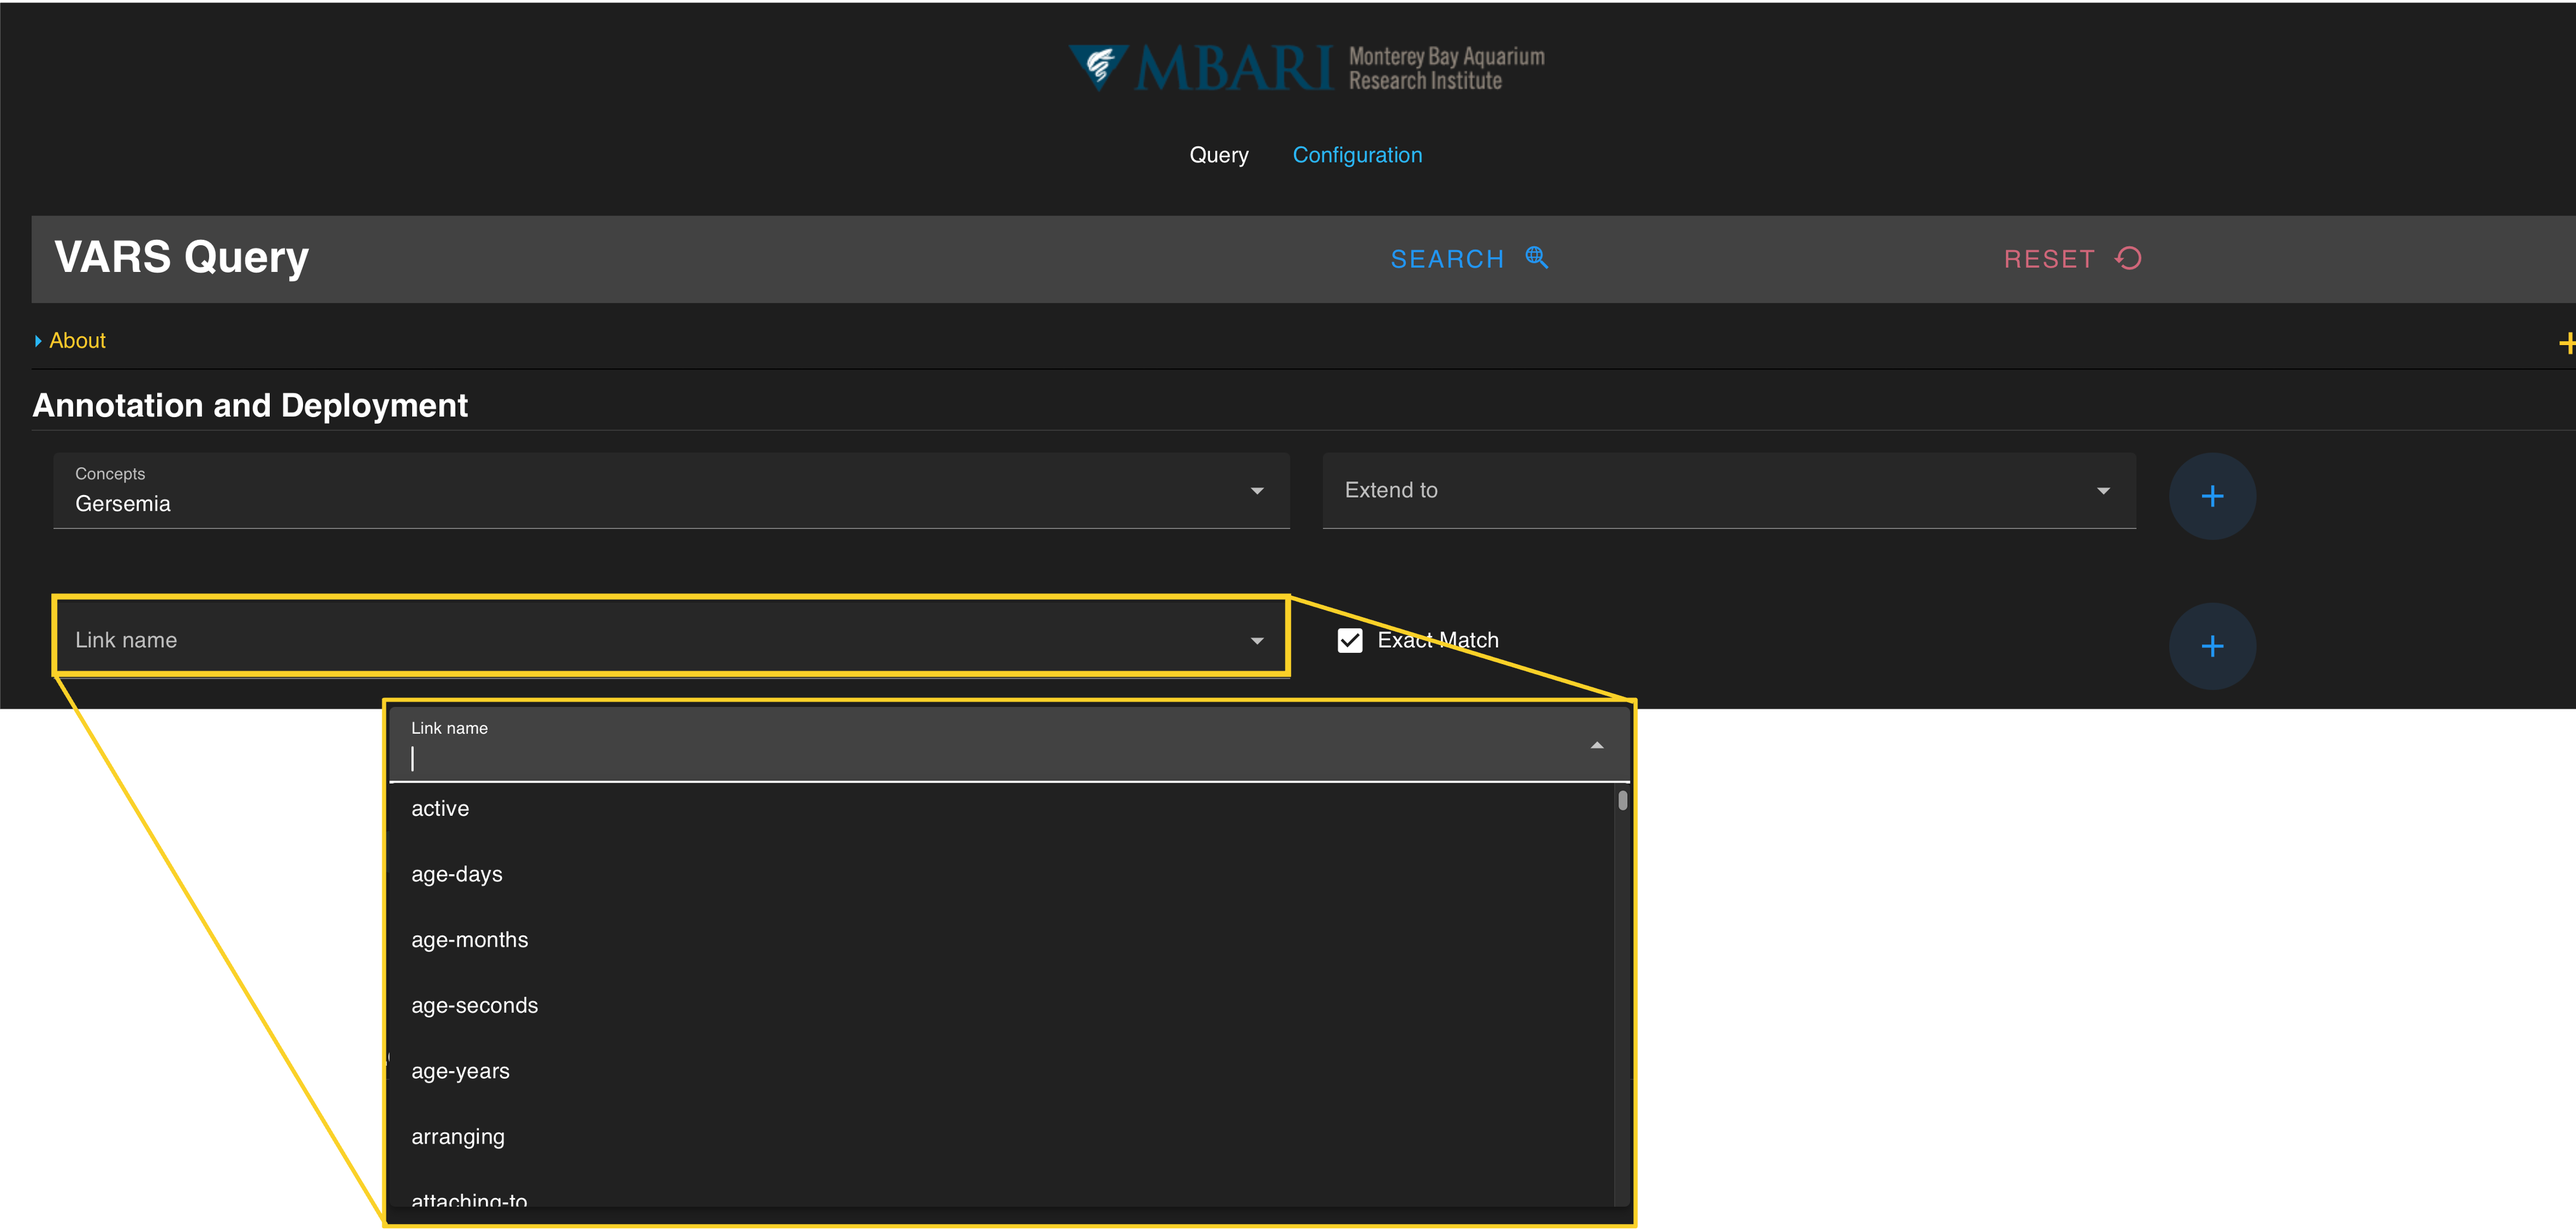
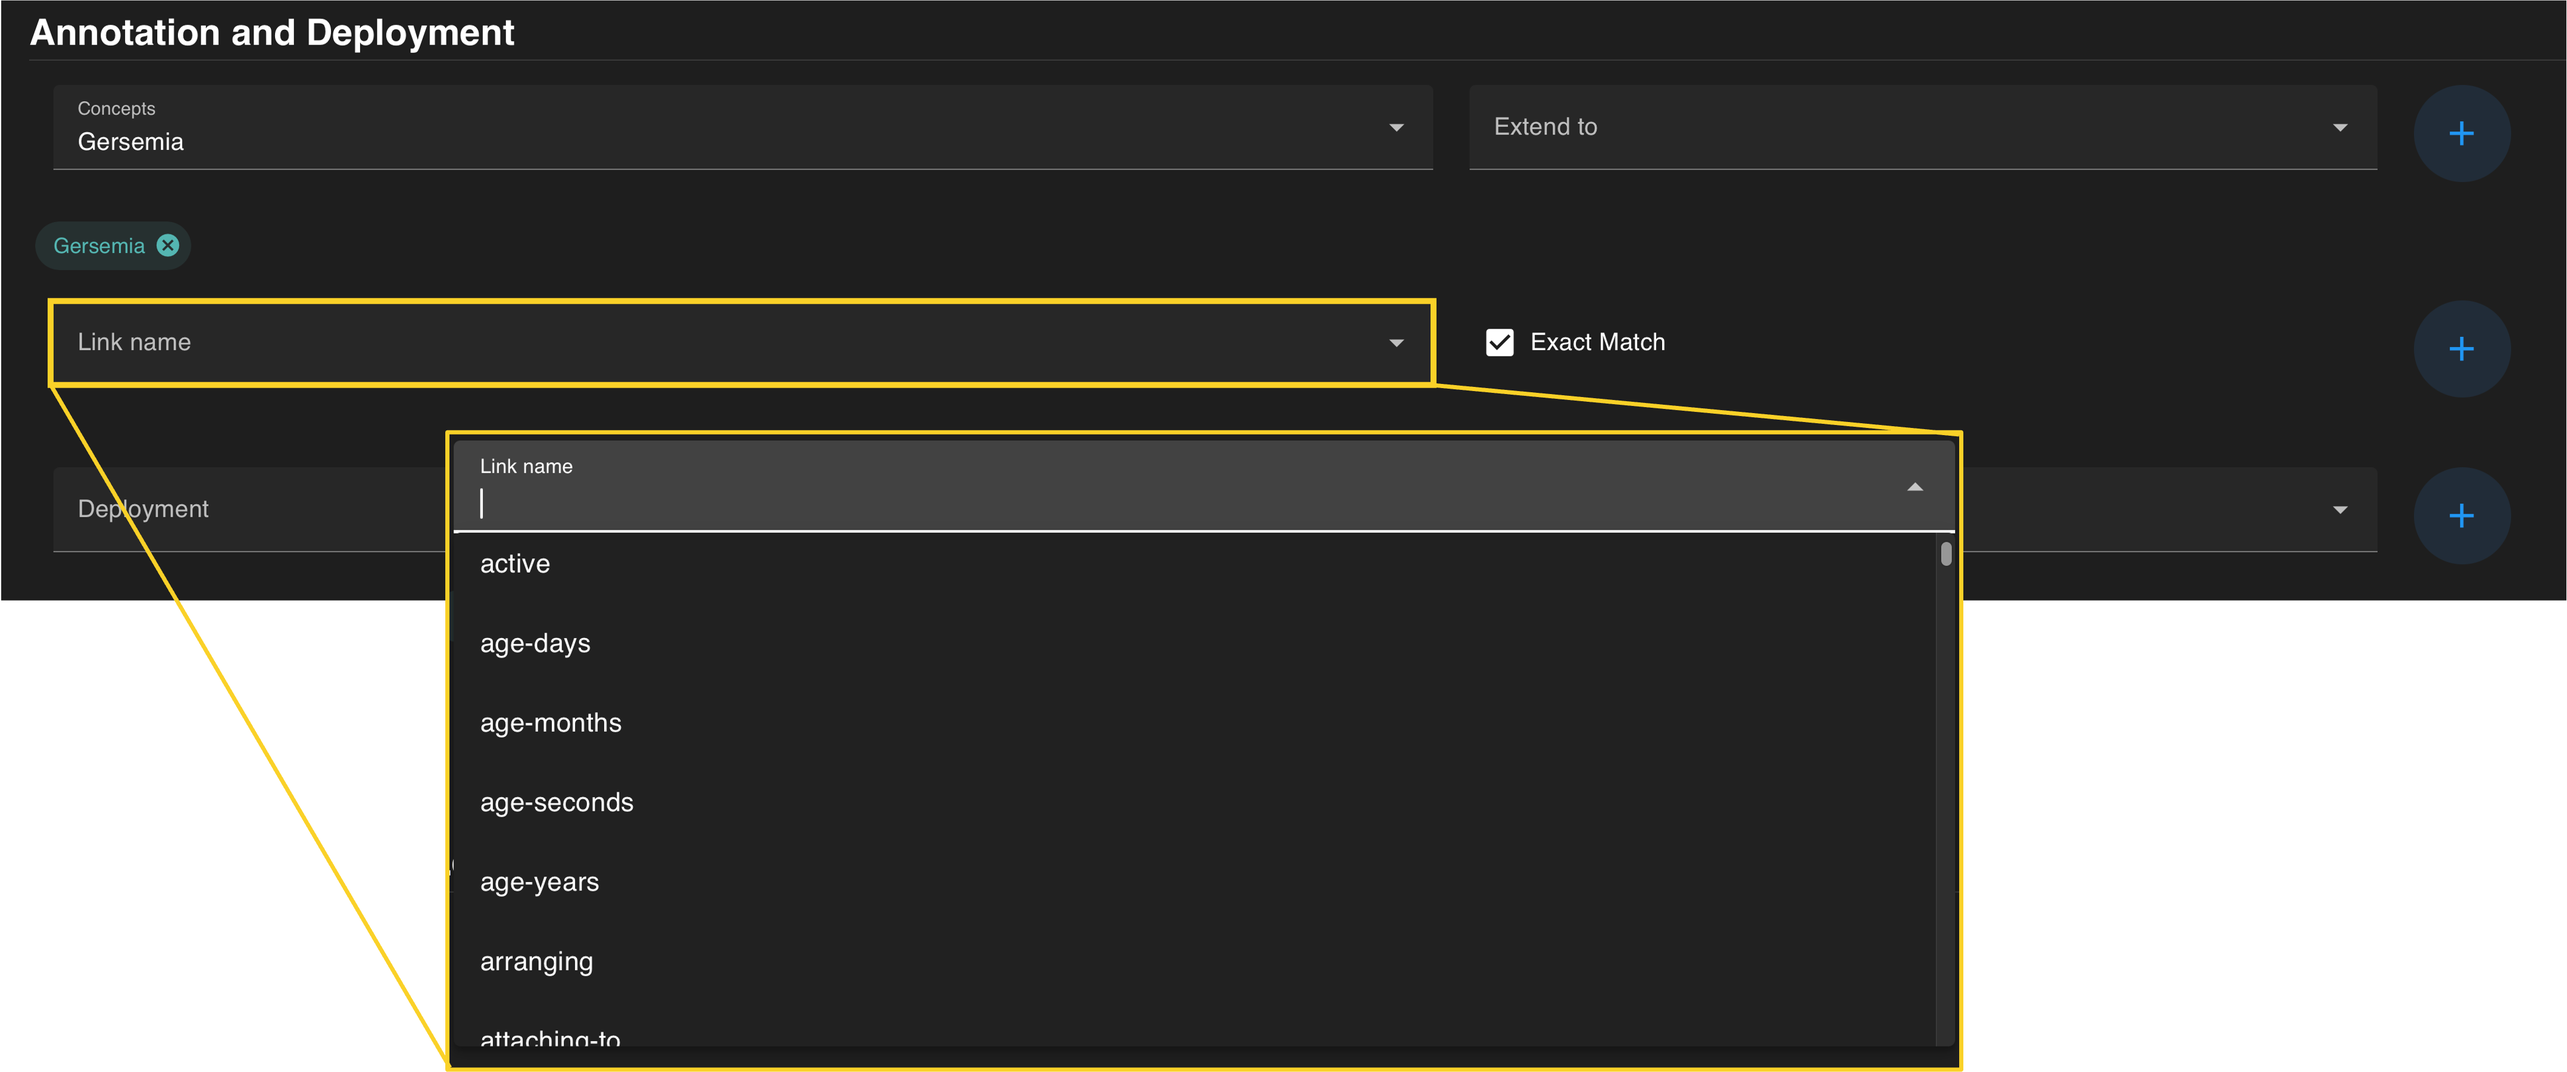
End of day updates

diff --git a/docs/doc_04_add_deployments_cameraplatform.md b/docs/doc_04_add_deployments_cameraplatform.md
@@ -1,14 +1,14 @@
-## *Adding Deployments and Camera Platforms* ## 
 
-### *Deployments* ###
 
- **Deployments** that have been registered in the VARS database can be used to constrain a query.
+## *Adding Deployments* ##
+
+  **Deployments** refer to specific ROV dives or instrument deployments where data and imagery were collected. Deployments that have been registered in the VARS database can be used to constrain a query.
  
-#### *Deployment Identification Numbers* ####
+### *Deployment Identification Numbers* ###
 
 
--   **ROV Deployments** can be searched by the ROV Name and dive number (these also need to be  4-digit numbers), e.g. Doc Ricketts 0013
-Other platforms use labels based on the original operator’s naming convention. 
+-   **ROV Deployments** can be searched by the ROV Name and dive number (these also need to be  4-digit numbers, e.g. Doc Ricketts 0013).
+
 
 ??? note "Registered ROVs in VARS"
 
@@ -26,6 +26,7 @@ Other platforms use labels based on the original operator’s naming convention.
      *   Ahi (1, 2)
      *   Daphne (1, 2)
      *   Galene Optim
+     *   i2MAP
      *   Makai (1, 2, aft, forward)
      *   Pontus (1, 2)
      *   Triton 47
@@ -42,18 +43,23 @@ Other platforms use labels based on the original operator’s naming convention.
 
 
 
-Once a deployment is entered, add the term to the current query by pressing the <span style="color:#4488ed;">**blue **+** button**</span> on the right. The selection should be visible in a <span style="color:#60aaa8;">**colored search chip**</span> below the search box. Details can be removed from a search by clicking the “x” located on each chip.
+Once a deployment is entered, add the term to the current query by pressing the <span style="color:#4488ed;">**blue **+** button**</span> on the right. The selection should be visible in a <span style="color:#60aaa8;">**colored search chip**</span> below the search box. Details can be removed from a search by clicking the **“x”** located on each chip.
 
 ![Configuration](assets/images/deployments.png)
 
 ### *Camera Platforms* ###
 
-A **Camera Platforms** specifies the platform a camera was deployed on while recording the selected observations.
+A **Camera Platforms** specifies the platform a camera was deployed on while recording the selected observations. 
 
 ??? note "Currently Registered Camera Platforms in VARS"
 
-     *   *ArcticAUV:* Ahi(1,2), Daphne, Galene Optim, i2MAP, Makai(1,2), Piscivore, Pontus(1,2)Rays
+     *   *AUV:* Ahi(1,2), Daphne, Galene Optim, i2MAP, Makai(1,2), Piscivore, Pontus(1,2)Rays
      *   *Benthic Rover II*
      *   *ROV:* Doc Ricketts, Mini ROV, Tiburon, Ventana
      *   *Tripod Camera:* Coral Observatory, Macro Coral Cam, Station M Tripod
      *.  *TopoCam*
+
+
+ Once a camera platform is entered, add the term to the current query by pressing the <span style="color:#4488ed;">**blue **+** button**</span> on the right. The term should be visible in a <span style="color:#60aaa8;">**colored search chip**</span> below the search box. Details can be removed from a search by clicking the **“x”** located on each chip.
+
+ ![Configuration](assets/images/cameraplatform.png)

diff --git a/docs/doc_getting_started.md b/docs/doc_getting_started.md
@@ -1,5 +1,6 @@
 # Getting Started
  
+## *Query Configuration*
 The VARS Query is a web-based application found here: <https://m3.shore.mbari.org/query/>
   
 Click on the “Configuration” tab in the top header. When selected, the text will turn white.
@@ -9,5 +10,39 @@ Click on the “Configuration” tab in the top header. When selected, the text 
  
 Enter the URL for your VARS configuration server (At MBARI: <https://m3.shore.mbari.org/config>). Press save. Once this is set up, it will remain saved for future visits to the query application.
 
+## *Query Interface Orientation*
+
+The VARS query interface uses a series of parameter fields to easily search specific onbservation.  An overall layout detailed below. For more detailed information on each search parameters, go to the [User Guide](https://docs.mbari.org/internal/vars-query-vue/doc_01_general_info/.) or the links below.
+
+
+![Configuration](assets/images/query_orientation.png)
+
+<span style="color:#F5c639;">1</span> VARS Query Floating Toolbar
+   - The <span style="color:#2095f2;">**blue **SEARCH** button**</span> executes the search once all desired parameters are added.
+   - The <span style="color:#B7606c;">**red **RESET** button**</span> will remove all parameters entered for a query.
+
+<span style="color:#F5c639;">2</span> Annotation and Deployment Parameter Fields
+   - [Concepts](doc_02_selecting_concept.md) 
+   - [Associations](doc_03_add_associations.md)
+   - [Deployments and Camera Platforms](doc_04_add_deployments_cameraplatform.md)
+  
+
+<span style="color:#F5c639;">3</span> Location and Time Parameter Fields
+   - Location
+   - Depth
+   - Recorded Date
+
+<span style="color:#F5c639;">4</span> Miscellaneous Parameter Fields
+   - Observation Date
+   - Activities
+   - Groups
+   - Observers
+   - Chief Scientists
+
+<span style="color:#F5c639;">5</span> Additional Constraint Selections
+
+
+<span style="color:#F5c639;">6</span> Additional Ancillary Data Returns
+  
   
 

diff --git a/docs/doc_03_add_associations.md b/docs/doc_03_add_associations.md
@@ -3,6 +3,7 @@ There are multiple ways to constrain search results of a query by descriptive te
  
 **General Search** allows users a quick way to open type a term that would constrain the query. This method pulls any annotations tagged with that term in it, including manually entered comments. For example, a search for the term “red” includes the color red, but also could include other terms that contain “red” such as altered or fractured. 
 
+![Configuration](assets/images/associations_general.png)
  
 **Exact Match** constrains the search by specific associations from the knowledgebase. Once the **Exact Match** box is selected, an alphabetical list becomes available with *Link Name* values from the database. A full list of associations can be found in [Appendix B.](appendix_b.md)
 
@@ -15,6 +16,6 @@ There are multiple ways to constrain search results of a query by descriptive te
 
  
  
-Once a detail or link value is entered, add the term to the current query by pressing the <span style="color:#4488ed;">**blue **+** button**</span> on the right. The term should be visible in a <span style="color:#60aaa8;">**colored search chip**</span> below the search box. Details can be removed from a search by clicking the “x” located on each chip.
+Once a detail or link value is entered, add the term to the current query by pressing the <span style="color:#4488ed;">**blue **+** button**</span> on the right. The term should be visible in a <span style="color:#60aaa8;">**colored search chip**</span> below the search box. Details can be removed from a search by clicking the **“x”** located on each chip.
 
 ![Configuration](assets/images/associations_generalsearch.png)
